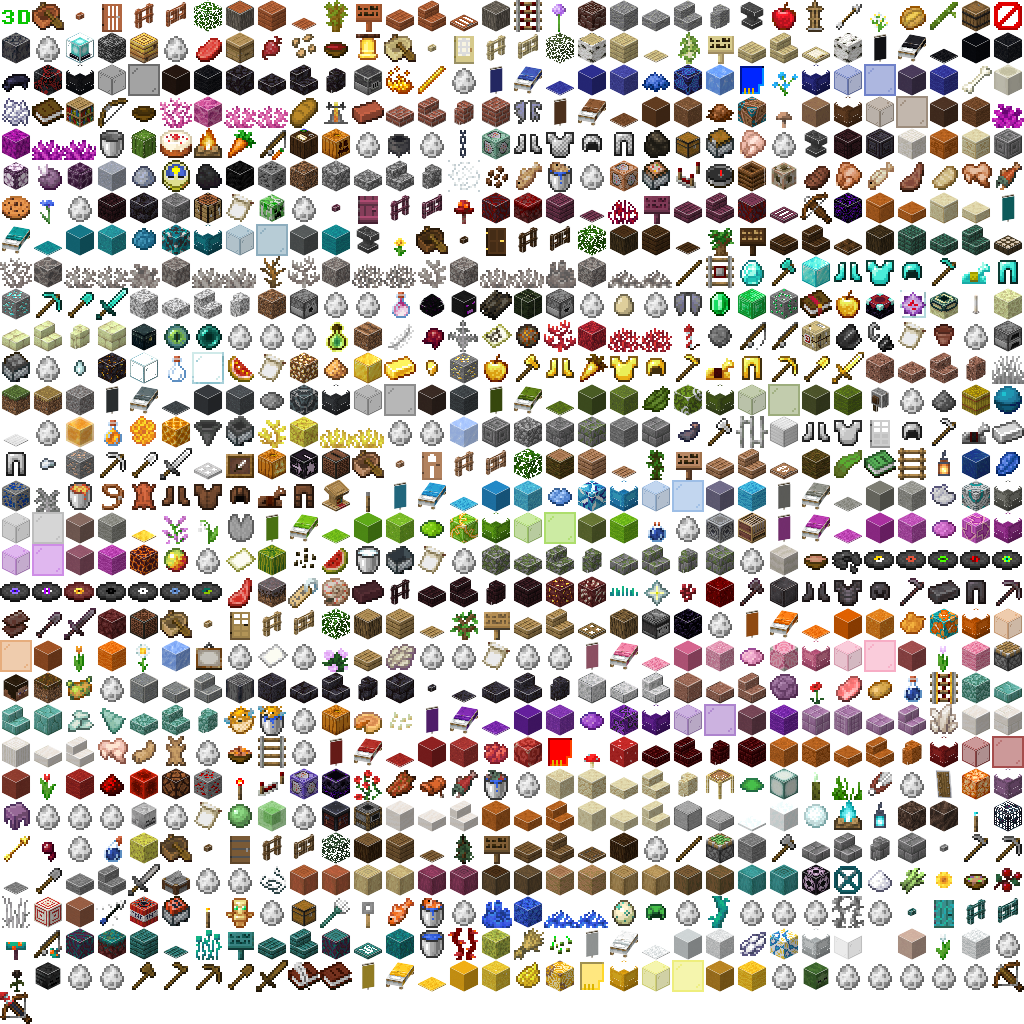
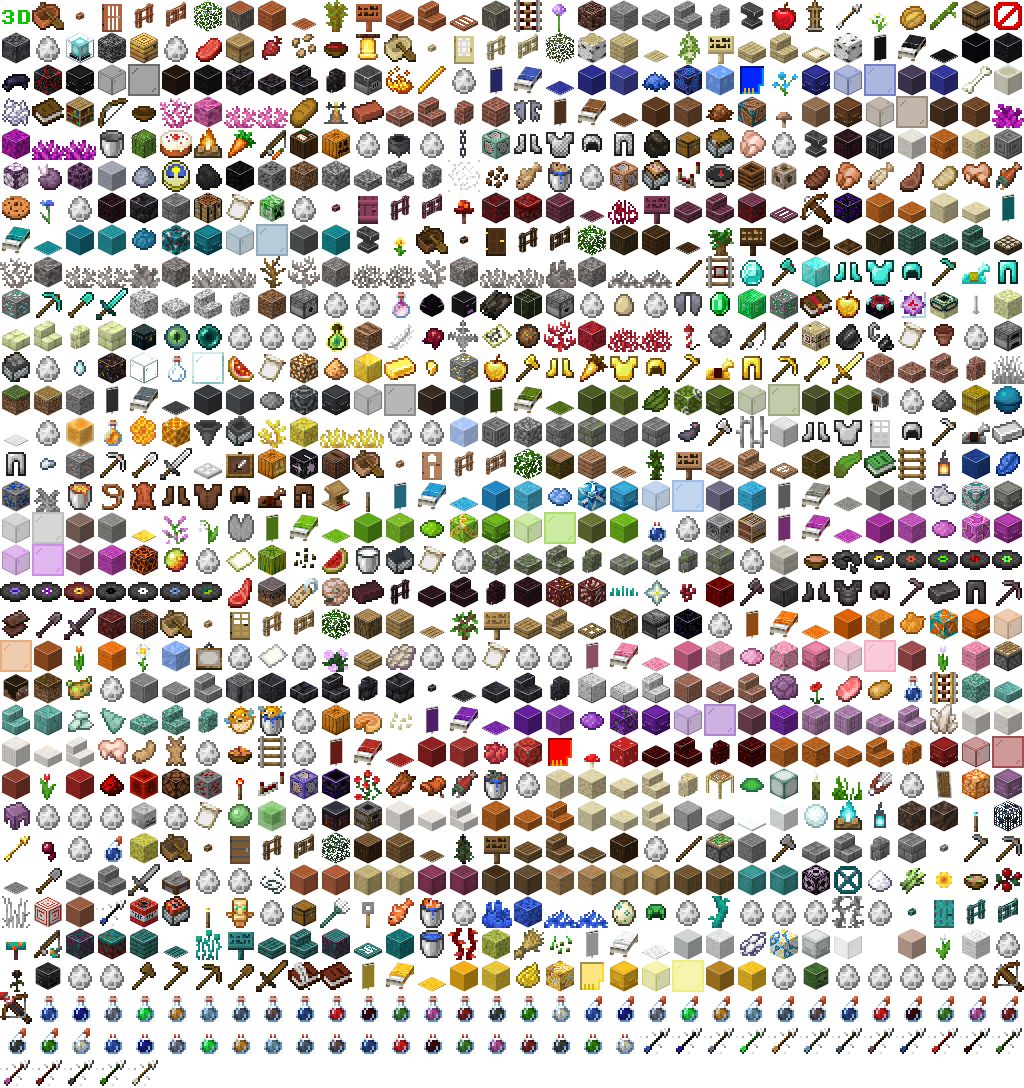
Inventory replay: fix timing drift and deaths/reloads, sharp rendering, shulker box contents and durability in tooltips
- The time between changes was added once per slot on log lines that changed several slots, so the replay drifted
  after every big change (deaths, pick-ups after respawning)
- Hermes logs only some of the slots a death empties: the whole inventory is emptied at the death
- After the world loads again the first log lists only filled slots: it's taken as the whole inventory
  (checked: the replay now matches every one of these full logs in all runs)
- Drawn at the GUI scale times the screen's pixel density; counts placed with the game's character widths
- Shulker box tops, potions in their own colours
- Tooltips: a grid of a shulker box's contents (like the Shulker Box Tooltip mod) and durability

Claude-Session: https://claude.ai/code/session_01QC4kesgfzu8d9sGz6oSXT1

diff --git a/src/inventory.js b/src/inventory.js
@@ -3,9 +3,12 @@
  * build.mjs reads it from the log into inv/<N>.json (see inv.mjs) and puts the item icons the site needs in
  * items/ (atlas.png, rendered from the game's models; items.json says where each icon is).
  * With a travel map it's under the map and follows its timeline; otherwise it has a card and a slider of its own.
- * Hovering (or tapping) an item shows its tooltip, as in the game.
+ * Hovering (or tapping) an item shows its tooltip, as in the game, plus its durability, and for a shulker box a
+ * grid of what's inside (like the Shulker Box Tooltip mod).
+ *
+ * Everything is drawn in the game's GUI pixels (the inventory screen is 176×166), times P screen pixels:
+ * P = the GUI scale (2, or 3 with room) × the screen's pixel density, so it stays sharp.
  */
-const INV_S = 2;   // the game's GUI scale
 // where each slot is on the inventory screen (0–8 hotbar, 9–35 inventory, 36–39 boots→helmet, 40 off hand)
 const INV_SLOTS = (() => {
   const s = [];
@@ -15,6 +18,9 @@ const INV_SLOTS = (() => {
   return s;
 })();
 const INV_EMPTY = {39: "empty_helmet", 38: "empty_chestplate", 37: "empty_leggings", 36: "empty_boots", 40: "empty_shield"};
+// shulker box colours for the contents grid (the undyed box is purple)
+const INV_DYE = {white: "#F9FFFE", orange: "#F9801D", magenta: "#C74EBD", light_blue: "#3AB3DA", yellow: "#FED83D", lime: "#80C71F", pink: "#F38BAA", gray: "#474F52",
+  light_gray: "#9D9D97", cyan: "#169C9C", purple: "#8932B8", blue: "#3C44AA", brown: "#835432", green: "#5E7C16", red: "#B02E26", black: "#1D1D21", "": "#976997"};
 
 let invAssetsP = null;
 const invData = {};
@@ -23,11 +29,11 @@ function invAssets() {
   const img = src => new Promise((ok, bad) => { const i = new Image(); i.onload = () => ok(i); i.onerror = bad; i.src = src; });
   invAssetsP = Promise.all([
     fetch("items/items.json").then(r => { if (!r.ok) throw 0; return r.json(); }),
-    img("items/atlas.png"), img("items/inventory.png"), img("items/ascii.png"), img("items/glint.png"),
+    img("items/atlas.png"), img("items/inventory.png"), img("items/ascii.png"), img("items/glint.png"), img("items/shulker_box.png"),
     ...Object.values(INV_EMPTY).map(k => img(`items/${k}.png`)),
-  ]).then(([db, atlas, gui, font, glint, ...empties]) => {
+  ]).then(([db, atlas, gui, font, glint, shulker, ...empties]) => {
     const empty = {}; Object.values(INV_EMPTY).forEach((k, i) => { empty[k] = empties[i]; });
-    return {db, atlas, gui, glint, empty, font: invFont(font)};
+    return {db, atlas, gui, glint, shulker, empty, font: invFont(font)};
   });
   invAssetsP.catch(() => { invAssetsP = null; });
   return invAssetsP;
@@ -37,12 +43,12 @@ function invAssets() {
 function invFont(img) {
   const c = document.createElement("canvas"); c.width = img.width; c.height = img.height;
   const x = c.getContext("2d"); x.drawImage(img, 0, 0);
-  const px = x.getImageData(0, 0, c.width, c.height).data, g = img.width / 16, widths = [];
+  const px = x.getImageData(0, 0, c.width, c.height).data, g = img.width / 16, adv = [];
   for (let ch = 0; ch < 256; ch++) {
     const cx = (ch % 16) * g, cy = Math.floor(ch / 16) * g;
     let w = 0;
     for (let col = g - 1; col >= 0 && !w; col--) for (let row = 0; row < g; row++) if (px[((cy + row) * c.width + cx + col) * 4 + 3] > 0) { w = col + 1; break; }
-    widths[ch] = ch === 32 ? 3 : w;
+    adv[ch] = ch === 32 ? 4 : w + 1;   // how far the next character goes (the game's widths)
   }
   const tints = {};
   const tinted = color => {
@@ -53,16 +59,16 @@ function invFont(img) {
   };
   const code = ch => { const n = ch.charCodeAt(0); return n < 256 ? n : 63; };
   return {
-    width: s => [...s].reduce((a, ch) => a + widths[code(ch)] + 1, 0) - (s ? 1 : 0),
-    // text at (x, y) in GUI pixels, with the game's shadow (the colour at a quarter brightness, one pixel down-right)
-    draw(ctx, s, x, y, color) {
+    width: s => [...s].reduce((a, ch) => a + adv[code(ch)], 0),
+    // text at (x, y) in GUI pixels, P screen pixels each, with the game's shadow (a quarter as bright, one pixel down-right)
+    draw(ctx, s, x, y, color, P) {
       const shadow = "#" + [1, 3, 5].map(i => Math.floor(parseInt(color.slice(i, i + 2), 16) / 4).toString(16).padStart(2, "0")).join("");
-      for (const [col, dx] of [[shadow, 1], [color, 0]]) {
+      for (const [col, d] of [[shadow, 1], [color, 0]]) {
         let cx = x;
         for (const ch of s) {
           const n = code(ch);
-          ctx.drawImage(tinted(col), (n % 16) * g, Math.floor(n / 16) * g, g, g, (cx + dx) * INV_S, (y + dx) * INV_S, g * INV_S, g * INV_S);
-          cx += widths[n] + 1;
+          ctx.drawImage(tinted(col), (n % 16) * g, Math.floor(n / 16) * g, g, g, (cx + d) * P, (y + d) * P, 8 * P, 8 * P);
+          cx += adv[n];
         }
       }
     },
@@ -71,7 +77,7 @@ function invFont(img) {
 
 // ---------- the inventory at a time ----------
 function invPrep(raw) {
-  const n = raw.e.length / 4, t = new Float64Array(n), slot = new Uint8Array(n), stack = new Int32Array(n), count = new Uint8Array(n);
+  const n = raw.e.length / 4, t = new Float64Array(n), slot = new Uint8Array(n), stack = new Int32Array(n), count = new Int32Array(n);
   let acc = 0;
   for (let i = 0; i < n; i++) { acc += raw.e[i * 4]; t[i] = acc * 100; slot[i] = raw.e[i * 4 + 1]; stack[i] = raw.e[i * 4 + 2]; count[i] = raw.e[i * 4 + 3]; }
   return {s: raw.s, n, t, slot, stack, count};
@@ -91,80 +97,112 @@ async function invMount(host, run) {
   } catch { host.innerHTML = `<p class="muted" style="margin:0">${esc(T.invFailed)}</p>`; return null; }
   if (!host.isConnected) return null;
   const W = 176, H = 166;
-  host.innerHTML = `<div class="invwrap"><canvas class="invcanvas" width="${W * INV_S}" height="${H * INV_S}" aria-label="${esc(T.invTitle)}"></canvas><canvas class="invtip" aria-hidden="true"></canvas></div>`;
-  const cv = host.querySelector(".invcanvas"), ctx = cv.getContext("2d"), tipCv = host.querySelector(".invtip"), tctx = tipCv.getContext("2d");
-  ctx.imageSmoothingEnabled = false;
-  const {db, atlas, gui, glint, empty, font} = A;
+  host.innerHTML = `<div class="invwrap"><canvas class="invcanvas" aria-label="${esc(T.invTitle)}"></canvas><canvas class="invtip" aria-hidden="true"></canvas></div>`;
+  const wrap = host.querySelector(".invwrap"), cv = host.querySelector(".invcanvas"), ctx = cv.getContext("2d"), tipCv = host.querySelector(".invtip"), tctx = tipCv.getContext("2d");
+  const {db, atlas, gui, glint, shulker, empty, font} = A;
+  // the scale: the game's GUI scale (3 when there's room, else 2, shrunk to fit a phone) × pixel density
+  let G = 2, P = 2;
+  const sizeUp = () => {
+    const room = host.clientWidth || W * 2;
+    G = room >= W * 3 + 40 ? 3 : 2;
+    P = Math.max(1, Math.round(G * (devicePixelRatio || 1)));
+    cv.width = W * P; cv.height = H * P;
+    wrap.style.width = W * G + "px";
+  };
   let body = null;
   if (run.uuid || run.player) { body = new Image(); body.onload = () => draw(); body.src = `https://mc-heads.net/body/${encodeURIComponent((run.uuid || run.player).replace(/-/g, ""))}/120`; }
-  let ms = 0, items = [], hover = -1, glinting = false, raf = 0;
-  const icon = (key, x, y) => {
-    const k = db.index[key]; if (k == null) return false;
-    ctx.drawImage(atlas, (k % db.cols) * db.size, Math.floor(k / db.cols) * db.size, db.size, db.size, x * INV_S, y * INV_S, 16 * INV_S, 16 * INV_S);
-    return true;
+  let items = [], hover = -1, glinting = false, raf = 0, visible = true;
+
+  // ---- drawing one item: icon, enchantment glint, durability bar, count (GUI pixels x, y; into context c at scale p) ----
+  const gl = document.createElement("canvas"), glx = gl.getContext("2d");
+  const iconAt = (c, key, x, y, p) => {
+    const k = db.index[key] != null ? db.index[key] : db.index.barrier; if (k == null) return;
+    c.drawImage(atlas, (k % db.cols) * db.size, Math.floor(k / db.cols) * db.size, db.size, db.size, x * p, y * p, 16 * p, 16 * p);
   };
-  // the enchantment glint: the game's glint texture sliding over the item, added on top
-  const gl = document.createElement("canvas"); gl.width = gl.height = 16 * INV_S;
-  const glx = gl.getContext("2d"); glx.imageSmoothingEnabled = false;
-  const drawGlint = (key, x, y, now) => {
+  const glintAt = (c, key, x, y, p, now) => {   // the game's glint texture sliding over the item, added on top
     const k = db.index[key]; if (k == null) return;
-    glx.globalCompositeOperation = "source-over"; glx.clearRect(0, 0, gl.width, gl.height);
-    const size = 128, off = (now / 40) % size;
+    gl.width = gl.height = 16 * p; glx.imageSmoothingEnabled = false;
+    const size = 64 * p, off = (now / 40 * p / 2) % size;
     glx.save(); glx.rotate(-Math.PI / 18);
-    for (const dx of [-size, 0]) glx.drawImage(glint, off + dx - 16, -24, size, size);
+    for (const dx of [-size, 0]) glx.drawImage(glint, off + dx - 8 * p, -12 * p, size, size);
     glx.restore();
     glx.globalCompositeOperation = "destination-in";
     glx.drawImage(atlas, (k % db.cols) * db.size, Math.floor(k / db.cols) * db.size, db.size, db.size, 0, 0, gl.width, gl.height);
-    ctx.save(); ctx.globalCompositeOperation = "lighter"; ctx.globalAlpha = .65; ctx.drawImage(gl, x * INV_S, y * INV_S); ctx.restore();
+    glx.globalCompositeOperation = "source-over";
+    c.save(); c.globalCompositeOperation = "lighter"; c.globalAlpha = .6; c.drawImage(gl, x * p, y * p); c.restore();
   };
+  const itemAt = (c, s, n, x, y, p, now) => {
+    c.imageSmoothingEnabled = false;
+    iconAt(c, s.m, x, y, p);
+    if (s.g) { glintAt(c, s.m, x, y, p, now); glinting = true; }
+    if (s.md) {   // n is how damaged it is: the durability bar, as the game draws it
+      if (n > 0) {
+        const left = Math.max(0, s.md - n), w = Math.round(13 * left / s.md);
+        c.fillStyle = "#000"; c.fillRect((x + 2) * p, (y + 13) * p, 13 * p, 2 * p);
+        c.fillStyle = `hsl(${Math.max(0, left / s.md) * 120},100%,50%)`; c.fillRect((x + 2) * p, (y + 13) * p, w * p, p);
+      }
+    } else if (n > 1) { const txt = String(n); font.draw(c, txt, x + 19 - 2 - font.width(txt), y + 6 + 3, "#FFFFFF", p); }
+  };
+
   function draw(now = performance.now()) {
+    ctx.imageSmoothingEnabled = false;
     ctx.clearRect(0, 0, cv.width, cv.height);
-    ctx.drawImage(gui, 0, 0, W, H, 0, 0, W * INV_S, H * INV_S);
+    ctx.drawImage(gui, 0, 0, W, H, 0, 0, W * P, H * P);
     // the player, in the black box (their skin from mc-heads.net)
     if (body && body.complete && body.naturalWidth) {
-      const bh = 62 * INV_S, bw = body.naturalWidth / body.naturalHeight * bh;
-      ctx.save(); ctx.beginPath(); ctx.rect(26 * INV_S, 8 * INV_S, 49 * INV_S, 70 * INV_S); ctx.clip();
-      ctx.imageSmoothingEnabled = true; ctx.drawImage(body, 51 * INV_S - bw / 2, 12 * INV_S, bw, bh); ctx.imageSmoothingEnabled = false; ctx.restore();
+      const bh = 62 * P, bw = body.naturalWidth / body.naturalHeight * bh;
+      ctx.save(); ctx.beginPath(); ctx.rect(26 * P, 8 * P, 49 * P, 70 * P); ctx.clip();
+      ctx.imageSmoothingEnabled = true; ctx.drawImage(body, 51 * P - bw / 2, 12 * P, bw, bh); ctx.restore();
     }
     glinting = false;
     INV_SLOTS.forEach(([x, y], slot) => {
       const it = items[slot];
-      if (!it) { if (INV_EMPTY[slot]) ctx.drawImage(empty[INV_EMPTY[slot]], 0, 0, 16, 16, x * INV_S, y * INV_S, 16 * INV_S, 16 * INV_S); return; }
-      const s = D.s[it[0]];
-      if (!icon(s.m, x, y)) icon("barrier", x, y);
-      if (s.g) { drawGlint(s.m, x, y, now); glinting = true; }
-      if (s.d != null) {   // the durability bar
-        ctx.fillStyle = "#000"; ctx.fillRect((x + 2) * INV_S, (y + 13) * INV_S, 13 * INV_S, 2 * INV_S);
-        ctx.fillStyle = `hsl(${s.d / 13 * 120},100%,50%)`; ctx.fillRect((x + 2) * INV_S, (y + 13) * INV_S, s.d * INV_S, 1 * INV_S);
-      }
-      if (it[1] > 1) { const txt = String(it[1]); font.draw(ctx, txt, x + 19 - 2 - font.width(txt), y + 6 + 3, "#FFFFFF"); }
+      if (!it) { if (INV_EMPTY[slot]) { ctx.imageSmoothingEnabled = false; ctx.drawImage(empty[INV_EMPTY[slot]], 0, 0, 16, 16, x * P, y * P, 16 * P, 16 * P); } return; }
+      itemAt(ctx, D.s[it[0]], it[1], x, y, P, now);
     });
-    if (hover >= 0) { const [x, y] = INV_SLOTS[hover]; ctx.fillStyle = "rgba(255,255,255,.5)"; ctx.fillRect(x * INV_S, y * INV_S, 16 * INV_S, 16 * INV_S); }
-    drawTip();
+    if (hover >= 0) { const [x, y] = INV_SLOTS[hover]; ctx.fillStyle = "rgba(255,255,255,.5)"; ctx.fillRect(x * P, y * P, 16 * P, 16 * P); }
+    drawTip(now);
     if (glinting && !raf && visible) raf = requestAnimationFrame(t => { raf = 0; if (glinting && visible) draw(t); });
   }
-  // the tooltip: the game's dark box with a purple edge, in the game's font
+
+  // ---- the tooltip: the game's dark box with a purple edge, in the game's font ----
   let tipAt = [0, 0];
-  function drawTip() {
+  function drawTip(now) {
     const it = hover >= 0 && items[hover];
     if (!it) { tipCv.style.display = "none"; return; }
-    const lines = D.s[it[0]].n, w = Math.max(...lines.map(l => font.width(l[0]))), h = 8 + (lines.length - 1) * 10 + (lines.length > 1 ? 2 : 0);
-    tipCv.width = (w + 8) * INV_S; tipCv.height = (h + 8) * INV_S;
-    const X = 4, Y = 4, R = (x, y, ww, hh, c) => { tctx.fillStyle = c; tctx.fillRect(x * INV_S, y * INV_S, ww * INV_S, hh * INV_S); };
+    const s = D.s[it[0]], lines = s.n.slice();
+    if (s.md) lines.push([(T.invDurability || "Durability: %s / %s").replace("%s", Math.max(0, s.md - it[1])).replace("%s", s.md), "#AAAAAA"]);
+    // a shulker box's contents: a 9×3 grid in the box's colour, under the name
+    const grid = s.b ? 64 : 0, gridW = s.b ? 176 : 0;
+    const textW = Math.max(...lines.map(l => font.width(l[0]) - 1)), w = Math.max(textW, gridW);
+    const textH = 8 + (lines.length - 1) * 10 + (lines.length > 1 ? 2 : 0), h = textH + (grid ? grid + 4 : 0);
+    tipCv.width = (w + 8) * P; tipCv.height = (h + 8) * P;
+    tctx.imageSmoothingEnabled = false;
+    const X = 4, Y = 4, R = (x, y, ww, hh, c) => { tctx.fillStyle = c; tctx.fillRect(x * P, y * P, ww * P, hh * P); };
     const bg = "rgba(16,0,16,.94)";
     R(X - 3, Y - 4, w + 6, 1, bg); R(X - 3, Y + h + 3, w + 6, 1, bg); R(X - 3, Y - 3, w + 6, h + 6, bg); R(X - 4, Y - 3, 1, h + 6, bg); R(X + w + 3, Y - 3, 1, h + 6, bg);
-    const grad = tctx.createLinearGradient(0, (Y - 3) * INV_S, 0, (Y + h + 3) * INV_S); grad.addColorStop(0, "rgba(80,0,255,.31)"); grad.addColorStop(1, "rgba(40,0,127,.31)");
+    const grad = tctx.createLinearGradient(0, (Y - 3) * P, 0, (Y + h + 3) * P); grad.addColorStop(0, "rgba(80,0,255,.31)"); grad.addColorStop(1, "rgba(40,0,127,.31)");
     R(X - 3, Y - 2, 1, h + 4, grad); R(X + w + 2, Y - 2, 1, h + 4, grad);
     R(X - 3, Y - 3, w + 6, 1, "rgba(80,0,255,.31)"); R(X - 3, Y + h + 2, w + 6, 1, "rgba(40,0,127,.31)");
     let y = Y;
-    lines.forEach((l, i) => { font.draw(tctx, l[0], X, y, l[1]); y += i === 0 ? 12 : 10; });
-    // next to the pointer, kept inside the card
-    const wrap = host.querySelector(".invwrap").getBoundingClientRect(), k = cv.getBoundingClientRect().width / cv.width;
-    const tw = tipCv.width * k, th = tipCv.height * k;
+    lines.forEach((l, i) => { font.draw(tctx, l[0], X, y, l[1], P); y += i === 0 ? 12 : 10; });
+    if (grid) {
+      // the shulker box screen's slots (its top edge, the three rows, its bottom edge), tinted like the box
+      const gy = Y + textH + 4, dye = (/^(\w+?)_?shulker_box$/.exec(s.m) || [])[1] || "";
+      const piece = () => { const c = document.createElement("canvas"); c.width = 176; c.height = 64; const x = c.getContext("2d");
+        x.drawImage(shulker, 0, 0, 176, 4, 0, 0, 176, 4); x.drawImage(shulker, 0, 16, 176, 56, 0, 4, 176, 56); x.drawImage(shulker, 0, 162, 176, 4, 0, 60, 176, 4); return c; };
+      const panel = piece(), px = panel.getContext("2d");
+      px.globalCompositeOperation = "multiply"; px.fillStyle = INV_DYE[dye] || INV_DYE[""]; px.fillRect(0, 0, 176, 64);
+      px.globalCompositeOperation = "destination-in"; px.drawImage(piece(), 0, 0);
+      tctx.drawImage(panel, 0, 0, 176, 64, X * P, gy * P, 176 * P, 64 * P);
+      for (const [slot, k, n] of s.b) if (slot < 27) itemAt(tctx, D.s[k], n, X + 8 + 18 * (slot % 9), gy + 5 + 18 * Math.floor(slot / 9), P, now);
+    }
+    // next to the pointer, kept inside the page
+    const tw = tipCv.width / P * G, th = tipCv.height / P * G, r = wrap.getBoundingClientRect();
     tipCv.style.width = tw + "px"; tipCv.style.height = th + "px"; tipCv.style.display = "block";
     let left = tipAt[0] + 12, top = tipAt[1] - th - 4;
-    if (left + tw > wrap.width) left = Math.max(0, tipAt[0] - tw - 12);
-    if (top < -wrap.top + 8) top = tipAt[1] + 16;
+    if (r.left + left + tw > document.documentElement.clientWidth - 8) left = Math.max(-r.left + 8, tipAt[0] - tw - 12);
+    if (r.top + top < 8) top = tipAt[1] + 20;
     tipCv.style.left = left + "px"; tipCv.style.top = top + "px";
   }
   const slotAt = ev => {
@@ -176,10 +214,10 @@ async function invMount(host, run) {
   cv.addEventListener("pointerdown", ev => { hover = slotAt(ev); draw(); });
   cv.addEventListener("pointerleave", ev => { if (ev.pointerType === "mouse") { hover = -1; draw(); } });
   // only animate the glint while it's on screen
-  let visible = true;
   if ("IntersectionObserver" in window) new IntersectionObserver(es => { visible = es[0].isIntersecting; if (visible) draw(); }).observe(cv);
-  const ctl = {set(v) { ms = v; items = invAt(D, ms); draw(); }};
-  return ctl;
+  if ("ResizeObserver" in window) new ResizeObserver(() => { const g = G, p = P; sizeUp(); if (g !== G || p !== P) draw(); }).observe(host);
+  sizeUp();
+  return {set(ms) { items = invAt(D, ms); draw(); }};
 }
 
 // ---------- a card of its own (runs without a travel map): the inventory and a slider ----------

diff --git a/items/make/render.js b/items/make/render.js
@@ -187,7 +187,6 @@ async function special(ctx, id) {
     const img = await tex("entity/shulker/shulker" + (m[1] ? "_" + m[1] : ""));
     // lid over the top 12, base under it
     const els = [box(img, [0, 0, 0], [16, 8, 16], 0, 28, 16, 8, 16), box(img, [0, 4, 0], [16, 16, 16], 0, 0, 16, 12, 16)];
-    for (const e of els) { const up = e.faces.up; e.faces.up = e.faces.down; e.faces.down = up; }
     draw3d(ctx, els, BLOCK_VIEW, "side"); return true;
   }
   if ((m = /^(chest|trapped_chest|ender_chest)$/.exec(id))) {
@@ -235,9 +234,20 @@ async function special(ctx, id) {
   return false;
 }
 
+// potions, splash/lingering potions and tipped arrows in each potion's colour: "splash_potion@fire_resistance"
+const POTION_COLOR = {water: "#385DC6", night_vision: "#1F1FA1", invisibility: "#7F8392", leaping: "#22FF4C", fire_resistance: "#E49A3A", swiftness: "#7CAFC6",
+  slowness: "#5A6C81", turtle_master: "#755D5C", water_breathing: "#2E5299", healing: "#F82423", harming: "#430A09", poison: "#4E9331", regeneration: "#CD5CAB",
+  strength: "#932423", weakness: "#484D48", luck: "#339900", slow_falling: "#F7F8E0"};
+window.POTION_IDS = ["potion", "splash_potion", "lingering_potion", "tipped_arrow"].flatMap(k => Object.keys(POTION_COLOR).map(p => k + "@" + p));
+
 async function render(id) {
   const c = document.createElement("canvas"); c.width = c.height = SIZE;
   const ctx = c.getContext("2d");
+  if (id.includes("@")) {
+    const [item, pot] = id.split("@"), col = POTION_COLOR[pot];
+    await drawGenerated(ctx, await resolve("item/" + item), item, item === "tipped_arrow" ? [null, col] : [col]);
+    return c;
+  }
   if (await special(ctx, id)) return c;
   const r = await resolve("item/" + id);
   if (r.generated) await drawGenerated(ctx, r, id, ITEM_TINT[id]);

diff --git a/src/app.css b/src/app.css
@@ -401,6 +401,7 @@ input.field:disabled{opacity:.6}
 /* inventory replay (inventory.js): the game's inventory screen, pixels kept sharp */
 .tvinv{display:flex;justify-content:center;margin-top:18px}
 .invwrap{position:relative;width:352px;max-width:100%;margin:0 auto}
+.invtip{max-width:none}
 .invcanvas{display:block;width:100%;height:auto;image-rendering:pixelated;image-rendering:crisp-edges;touch-action:manipulation}
 .invtip{position:absolute;display:none;pointer-events:none;image-rendering:pixelated;z-index:5}
 .invbar{display:flex;align-items:center;gap:12px;max-width:352px;width:100%;margin:0 auto}

diff --git a/src/text.js b/src/text.js
@@ -203,6 +203,7 @@ const T = {
     shipwreck: "Shipwreck", ocean_ruin: "Ocean ruin", fortress: "Nether fortress", bastion_remnant: "Bastion remnant", end_city: "End city"},
   invTitle: "Inventory",
   invFailed: "Couldn't load the inventory.",
+  invDurability: "Durability: %s / %s",
   travelFollow: "Follow the player",
   travelRewind: "Rewind",
   travelForward: "Fast forward",
